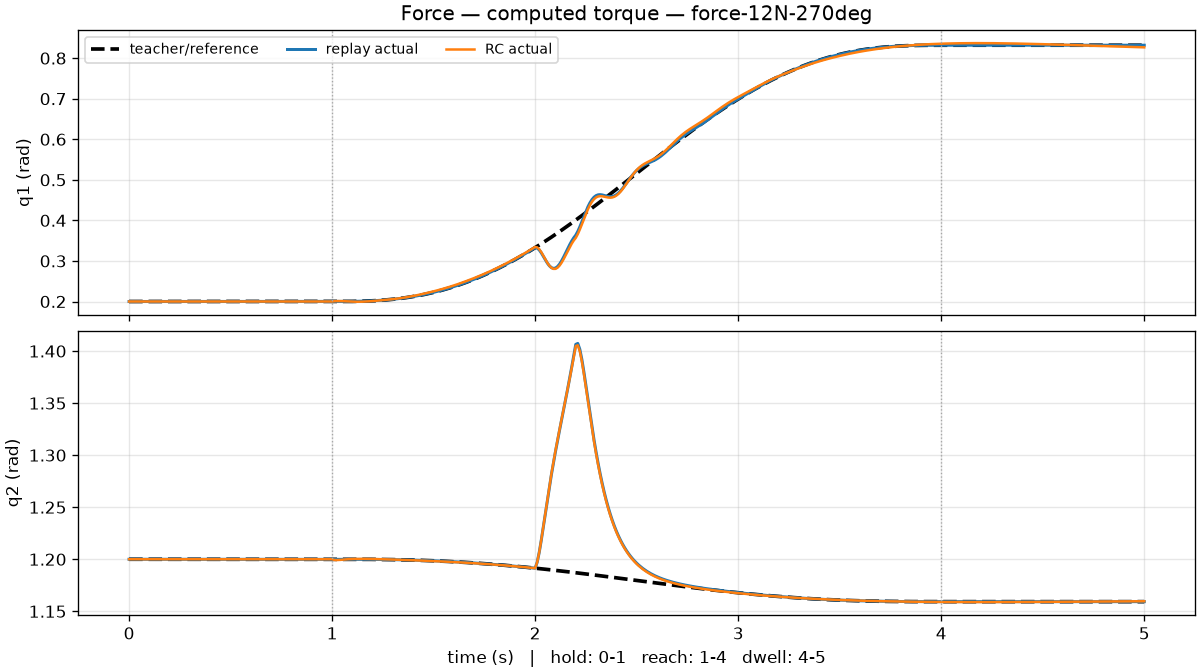
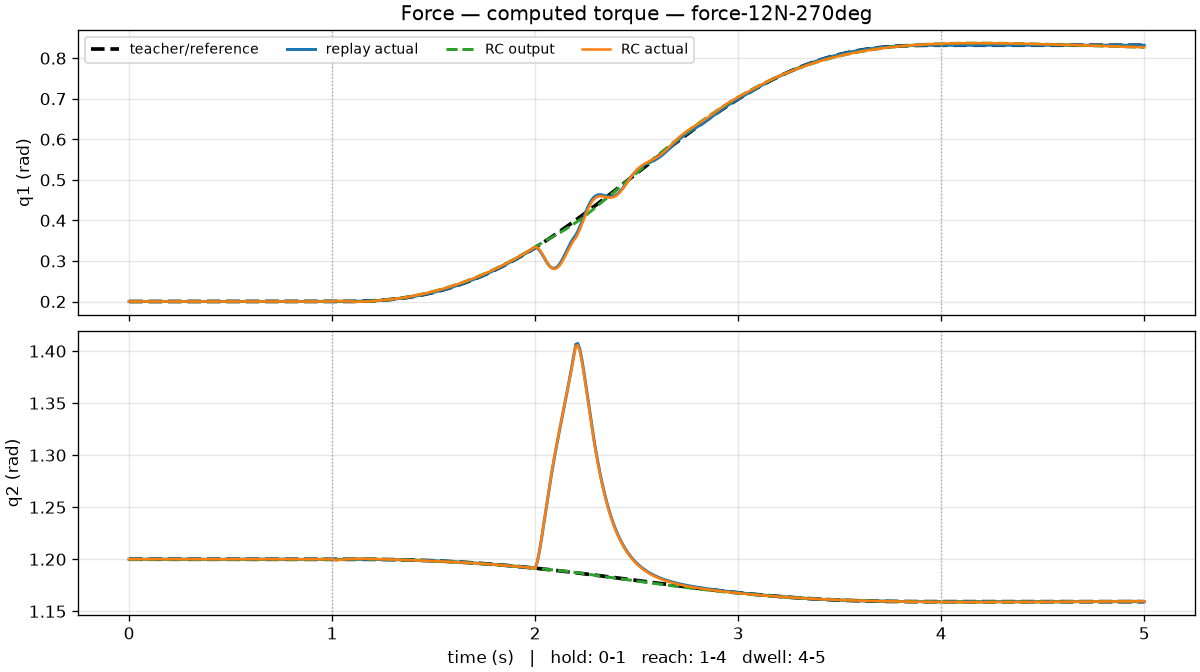
docs(results): show ESN output in task 1-a plots
Updates DOC-003, regenerates all ten representative trajectory figures with the fourth curve, documents the ordered styles, and extends the overview regression lock.

diff --git a/tests/regression/test_task_1a_overview.py b/tests/regression/test_task_1a_overview.py
@@ -107,3 +107,4 @@ def test_overview_visuals_are_bound_to_confirmatory_runs() -> None:
     assert "one five-second trajectory (501" in text
     assert "No random-noise injection, perturbed copies, or other data" in text
     assert "not a controlled RC-versus-Deep-RL benchmark" in text
+    assert "the ESN position output in\ndashed green" in text

diff --git a/docs/TASKS.md b/docs/TASKS.md
@@ -46,7 +46,7 @@ are complete. Do not mark research software complete merely because it runs once
 | --- | --- | --- | --- | --- |
 | DOC-001 | `DONE` | Define the research and implementation roadmap | — | `docs/PLAN.md` specifies architecture, equations, protocols, gates, safety, and reproducibility |
 | DOC-002 | `DONE` | Initialize the implementation task ledger | DOC-001 | `docs/TASKS.md` contains stable IDs, dependencies, statuses, and acceptance criteria |
-| DOC-003 | `DONE` | Write a human-oriented task 1-a results report with curated visualizations | M3-GATE, TOOL-001 | `docs/experiments/task_1a/overview.md` explains the motivation, one-trajectory/no-augmentation training, task, RC method, paired baselines, locked robustness protocol, results, interpretation, and limitations; it links the complete generated report and embeds the three aggregate plots; each of the five robustness classes uses the deterministic scenario closest to the RC+PD class-median RMSE and shows a 2×2 RC/replay × PD/computed-torque animation grid plus two per-joint teacher/replay/RC time-series plots generated by `scripts/plot_task_1a_trajectories.py`; source runs and commands are documented and regression-locked |
+| DOC-003 | `DONE` | Write a human-oriented task 1-a results report with curated visualizations | M3-GATE, TOOL-001 | `docs/experiments/task_1a/overview.md` explains the motivation, one-trajectory/no-augmentation training, task, RC method, paired baselines, locked robustness protocol, results, interpretation, and limitations; it links the complete generated report and embeds the three aggregate plots; each of the five robustness classes uses the deterministic scenario closest to the RC+PD class-median RMSE and shows a 2×2 RC/replay × PD/computed-torque animation grid plus two per-joint reference/replay-actual/RC-output/RC-actual time-series plots generated by `scripts/plot_task_1a_trajectories.py`; source runs and commands are documented and regression-locked |
 
 ## M0 — Repository foundation
 

diff --git a/docs/experiments/task_1a/overview.md b/docs/experiments/task_1a/overview.md
@@ -156,9 +156,10 @@ direct replay is on the right, PD is the top row, and computed torque is the
 bottom row.
 
 The time-series plots show the teacher signal/direct-replay reference as a black
-dashed line, replay's measured motion in blue, and RC's measured motion in
-orange. They are split by tracker and then by joint; vertical dotted lines mark
-the hold/reach and reach/dwell boundaries.
+dashed line, replay's measured motion in solid blue, the ESN position output in
+dashed green, and RC's measured motion in solid orange. The curves are drawn and
+listed in that order. The plots are split by tracker and then by joint; vertical
+dotted lines mark the hold/reach and reach/dwell boundaries.
 
 ### Nominal
 
